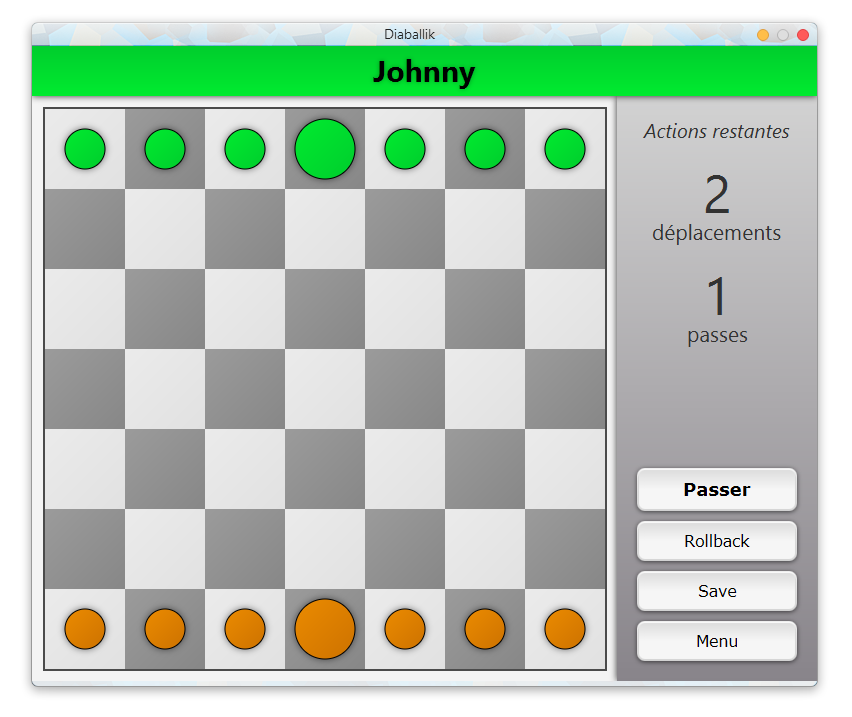
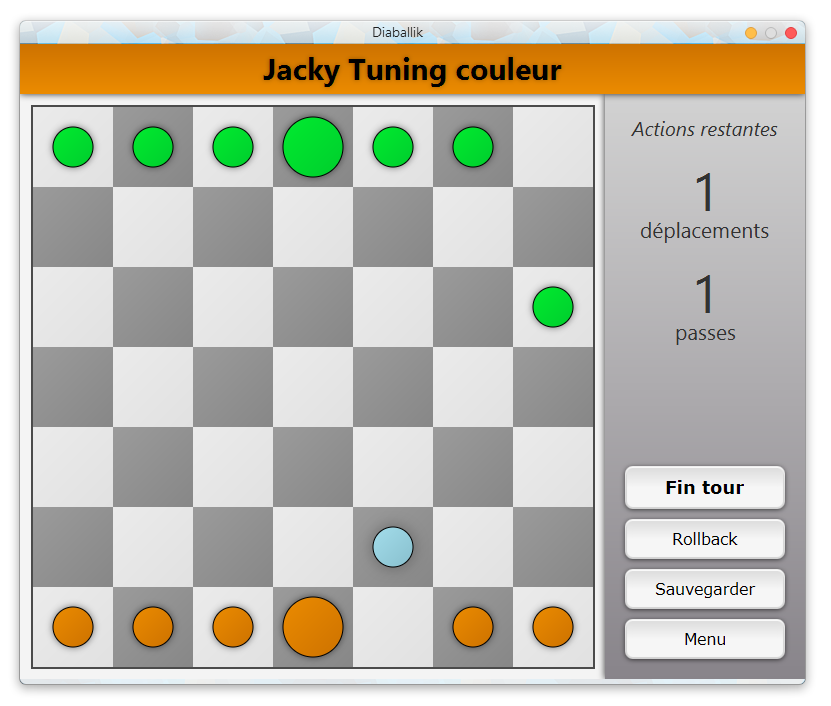
Added regles; corrected credits & some strings

diff --git a/src/diaballik/Diaballik.java b/src/diaballik/Diaballik.java
@@ -11,6 +11,7 @@ import diaballik.view.CaseView;
 import diaballik.view.Dialogs;
 import javafx.application.Application;
 import javafx.application.Platform;
+import javafx.geometry.Insets;
 import javafx.geometry.Pos;
 import javafx.scene.Scene;
 import javafx.scene.control.Button;
@@ -103,6 +104,7 @@ public class Diaballik extends Application {
         // TODO: séparer menuScene dans une autre classe
 
         Label titre = new Label("Diaballik");
+        titre.setPadding(new Insets(0, 0, 25, 0));
 
         Button newGame = new Button("Nouvelle partie");
         newGame.setOnAction(e -> newGame());
@@ -123,6 +125,11 @@ public class Diaballik extends Application {
             }*/
         });
 
+        Button regles = new Button("Règles");
+        regles.setOnAction(e -> {
+            getHostServices().showDocument("http://inf362.forge.imag.fr/Projet/Regles/diaballik/");
+        });
+
         Button credits = new Button("Crédits");
         credits.setOnAction(e -> Dialogs.showCredits());
 
@@ -132,6 +139,7 @@ public class Diaballik extends Application {
         vBox.getChildren().add(titre);
         vBox.getChildren().add(newGame);
         vBox.getChildren().add(loadGame);
+        vBox.getChildren().add(regles);
         vBox.getChildren().add(credits);
         vBox.getChildren().add(quitter);
 

diff --git a/src/diaballik/view/ActionsView.java b/src/diaballik/view/ActionsView.java
@@ -61,7 +61,7 @@ public class ActionsView extends BorderPane implements Observer {
 
         this.jeu.addObserver(this);
 
-        Button passerTour = new Button("Passer");
+        Button passerTour = new Button("Fin tour");
         passerTour.setOnAction(e -> jeu.changerTour());
         passerTour.setMaxWidth(Double.MAX_VALUE);
         passerTour.setId("passerTour");
@@ -70,7 +70,7 @@ public class ActionsView extends BorderPane implements Observer {
         rollback.setOnAction(e -> actionsController.rollback());
         rollback.setMaxWidth(Double.MAX_VALUE);
 
-        Button save = new Button("Save");
+        Button save = new Button("Sauvegarder");
         save.setOnAction(e -> actionsController.saveGame(Diaballik.SAVES_DIRECTORY));
         save.setMaxWidth(Double.MAX_VALUE);
 

diff --git a/src/diaballik/view/Dialogs.java b/src/diaballik/view/Dialogs.java
@@ -56,7 +56,7 @@ public class Dialogs {
         ArrayList<Pair<String, String>> noms = new ArrayList<>(
                 Arrays.asList(
                         new Pair<>("Nicolas Huchet", "Domaine"),
-                        new Pair<>("Houdebine Loïc", "Domaine"),
+                        new Pair<>("Loïc Houdebine", "Domaine"),
                         new Pair<>("Paul Reynaud", "Domaine"),
                         new Pair<>("Rana Sherif", "Domaine"),
                         new Pair<>("Anis Belahadji", "Domaine"),
